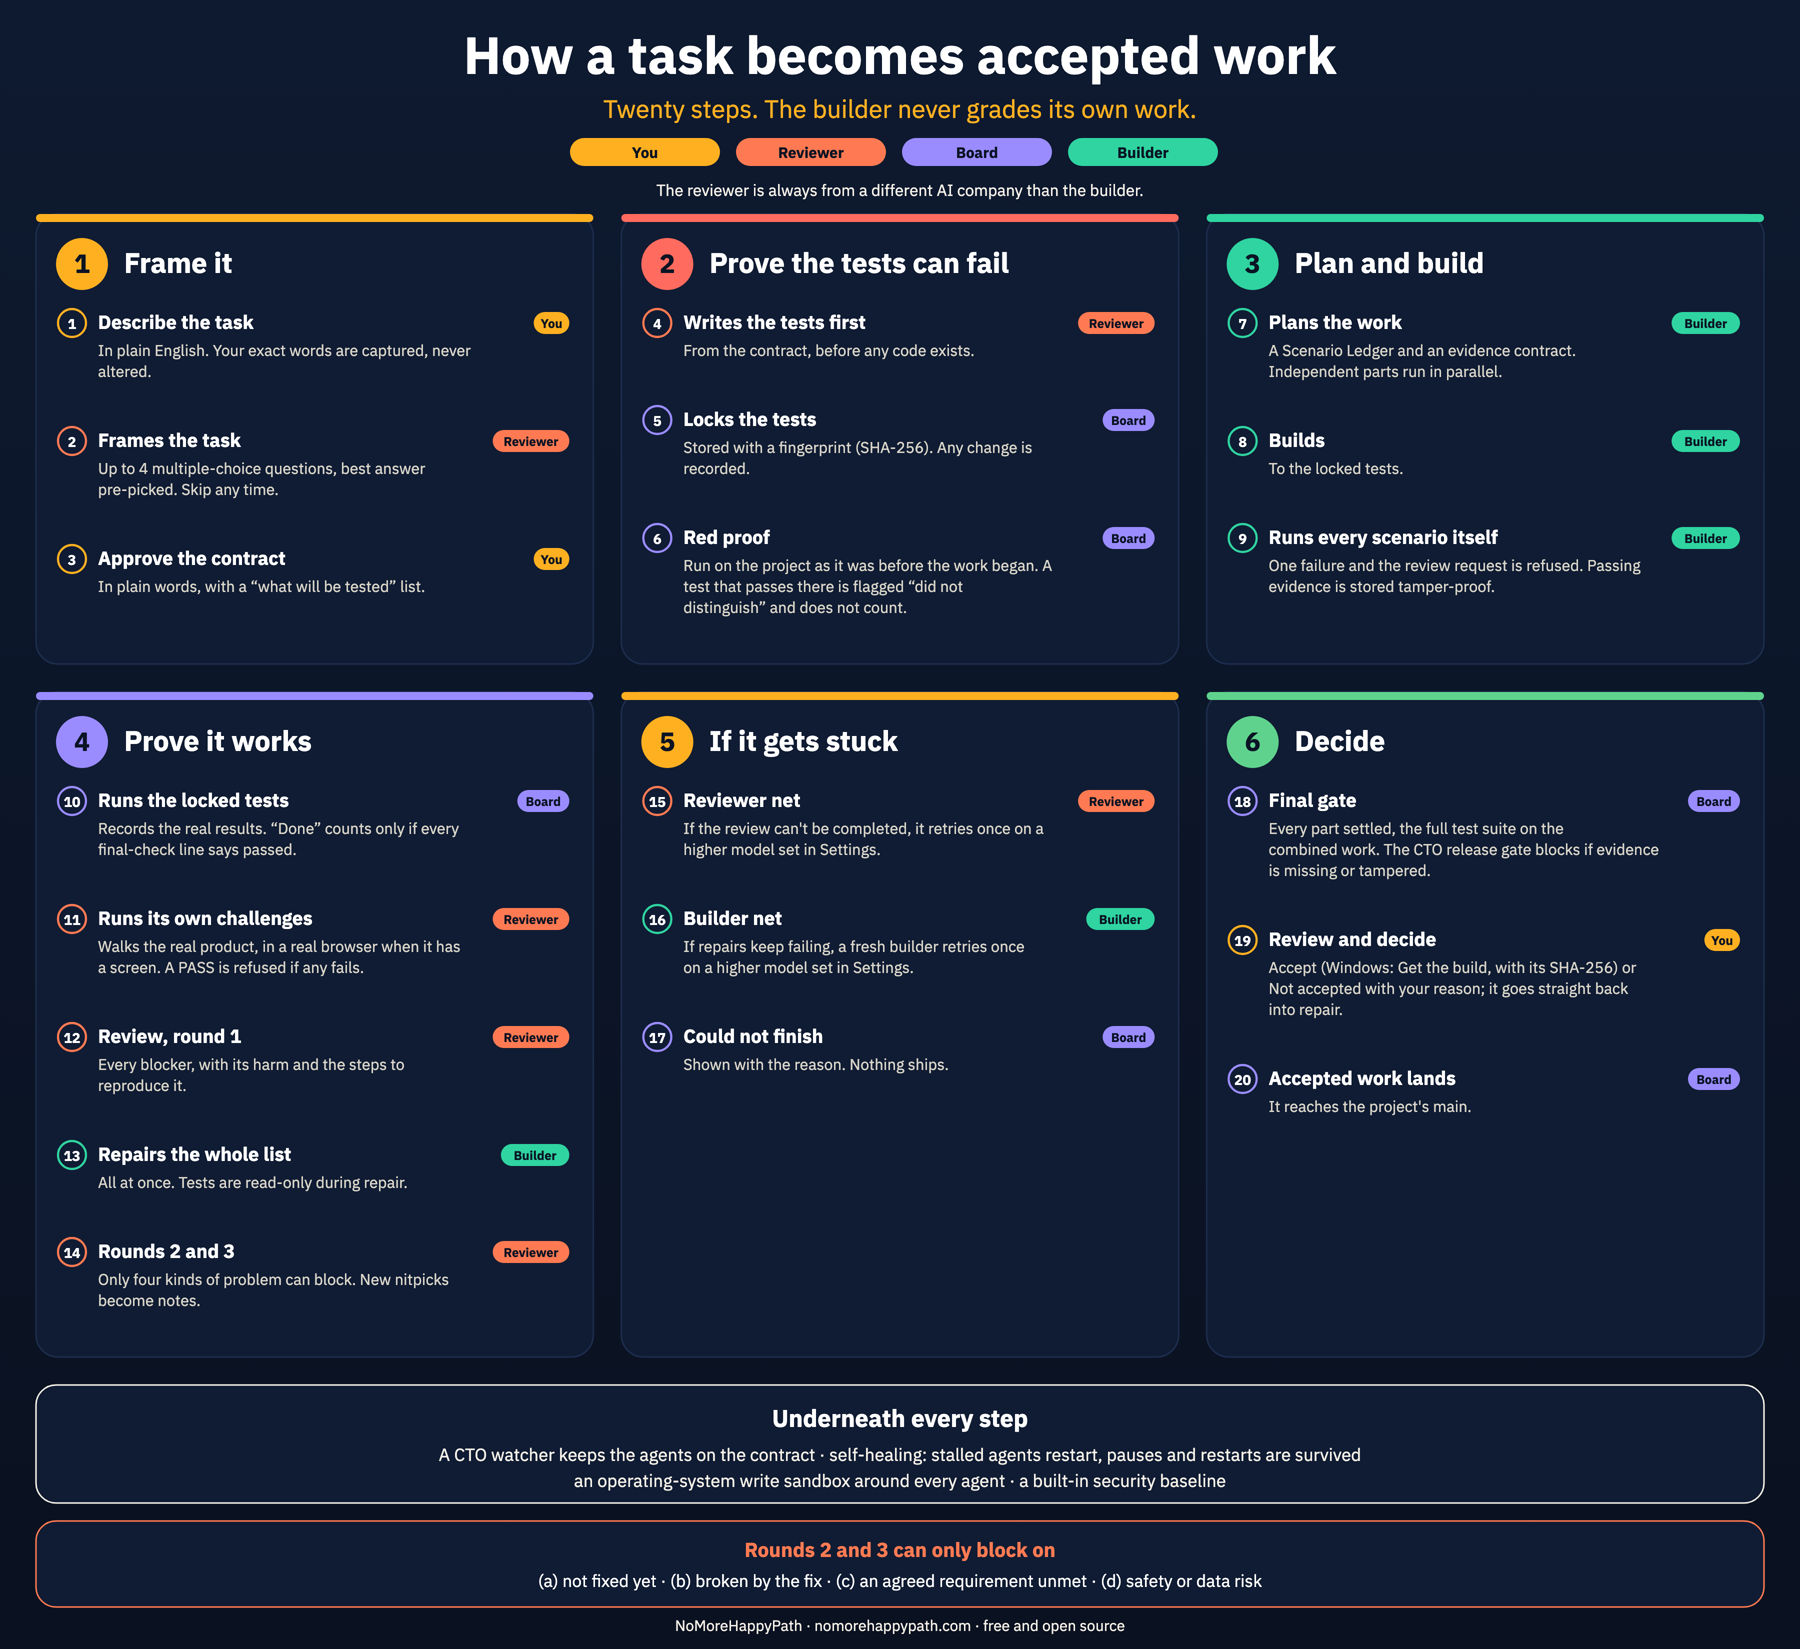
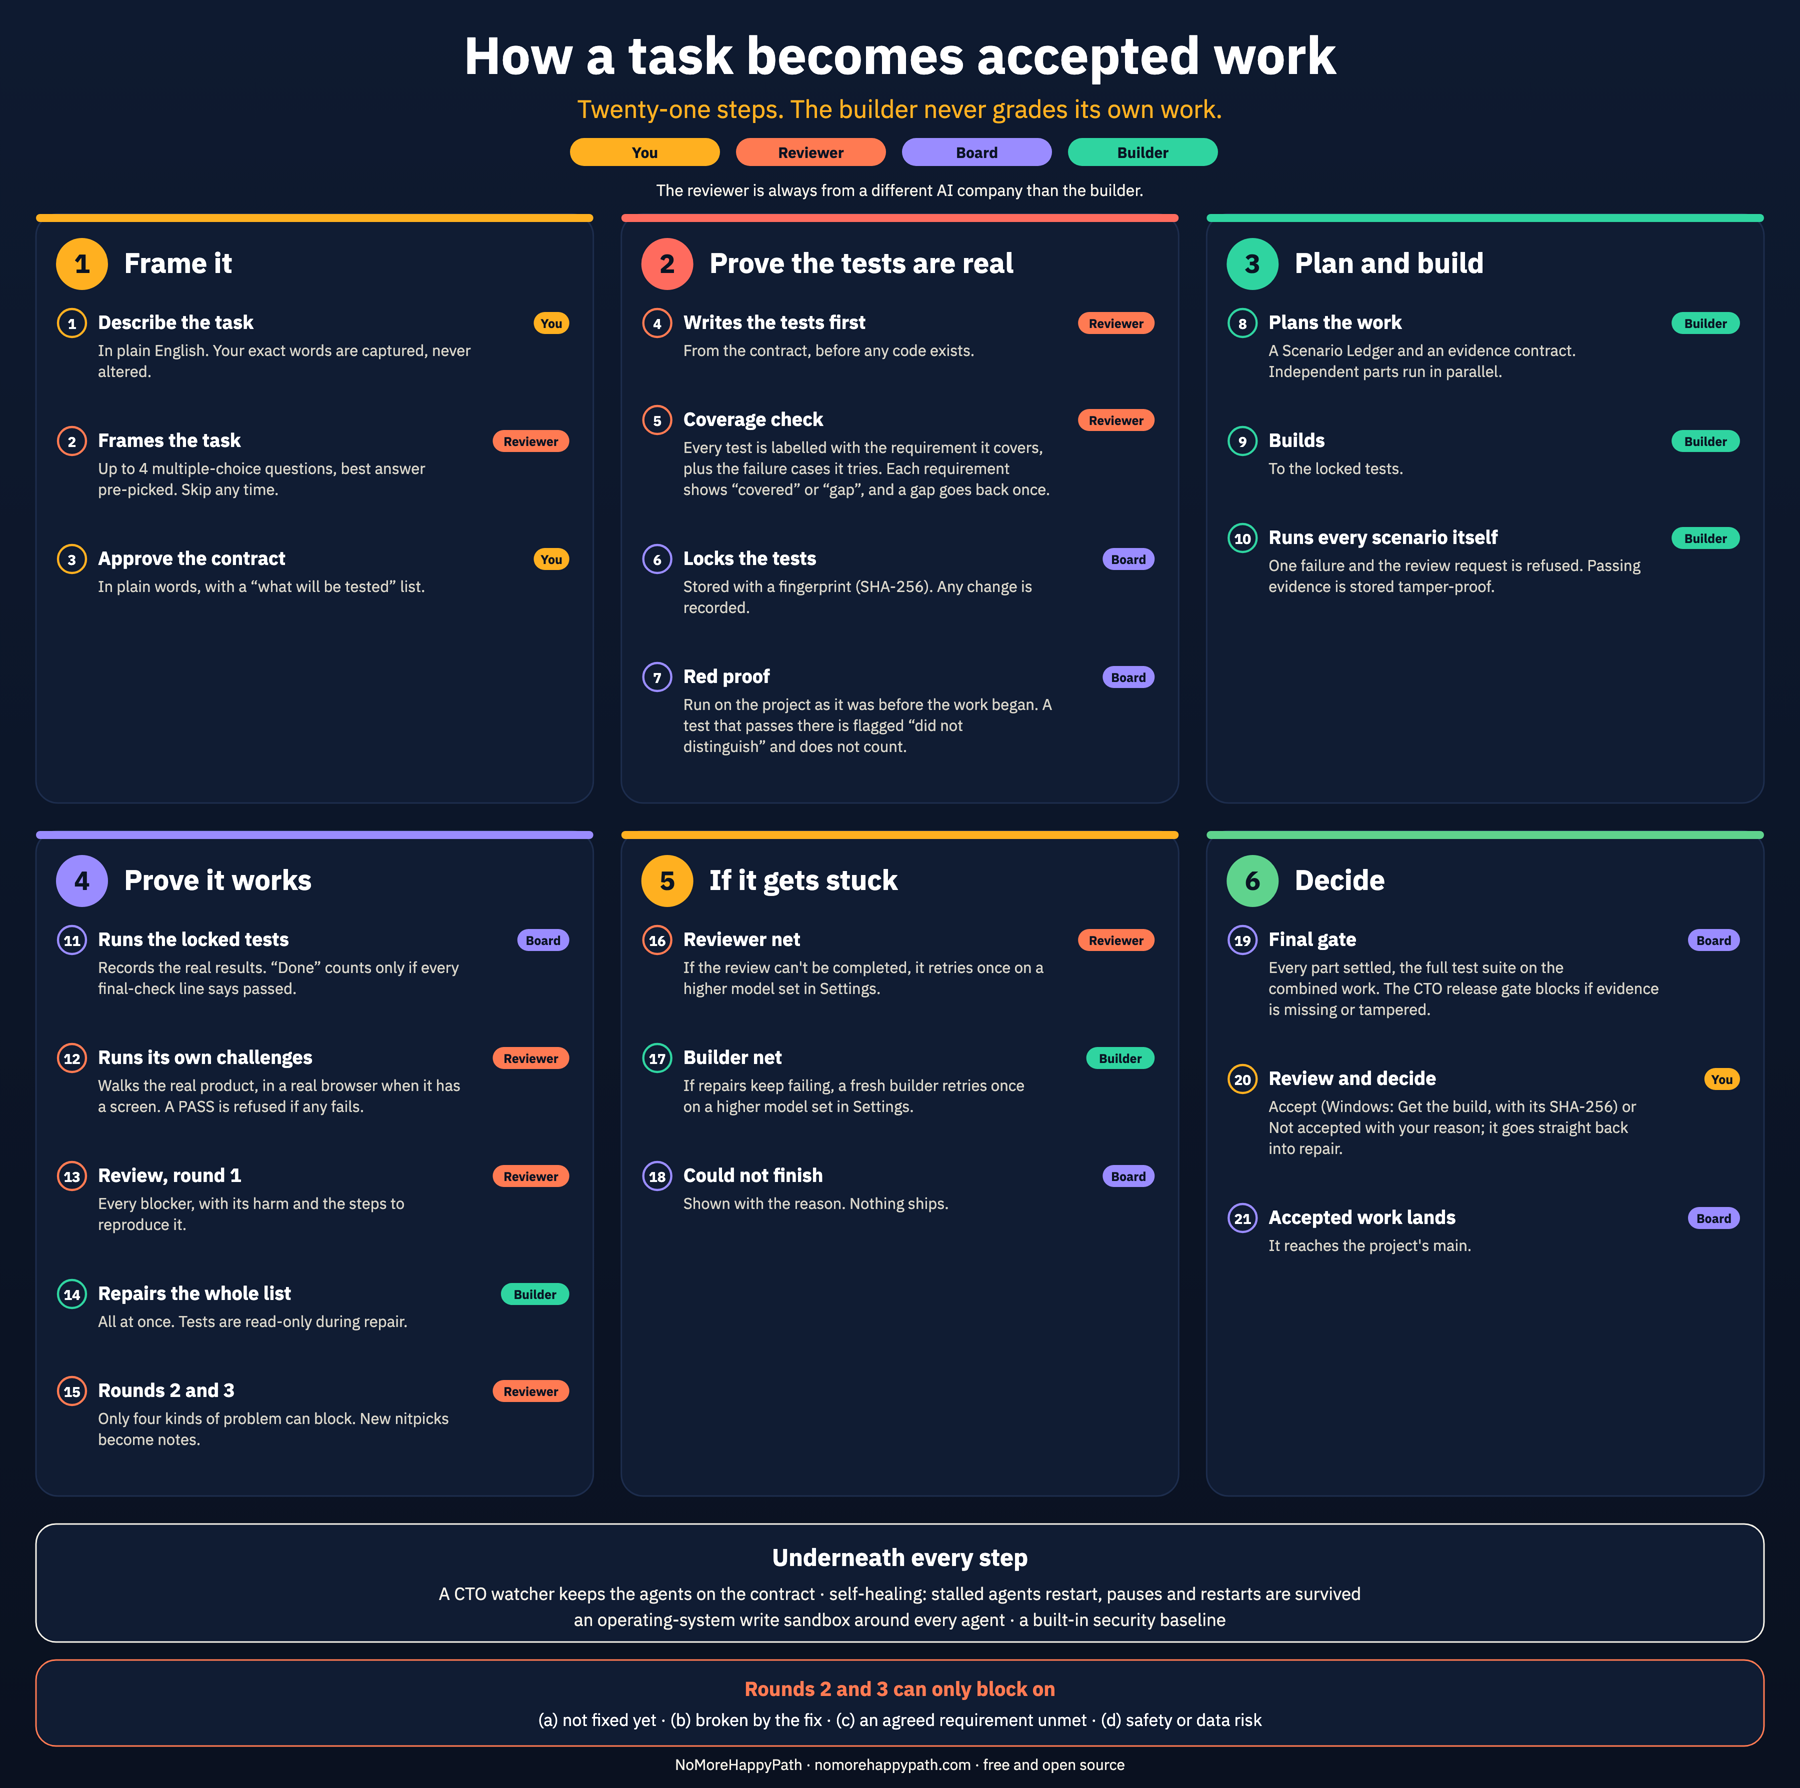
Show the 21-step process with the coverage check

diff --git a/index.html b/index.html
@@ -242,7 +242,7 @@
       <h2>From a sentence to software you can hand to a customer</h2>
       <div class="flow">
         <div class="flow-d">
-          <a class="zoom" href="assets/process-infographic.png" target="_blank" rel="noopener"><img src="assets/process-infographic.png" width="1800" height="1628" loading="lazy" alt="Twenty steps in six phases. Frame it: you describe the task, the reviewer frames it with up to four multiple-choice questions, you approve a plain-words contract. Prove the tests can fail: the reviewer writes the tests first, the board locks them and checks they fail on the project as it was before the work. Plan and build: the builder plans, builds to the locked tests and runs every scenario. Prove it works: the board runs the locked tests, the reviewer runs its own challenges and reviews in rounds, the builder repairs. If it gets stuck: one retry by the reviewer or a fresh builder on a higher model, otherwise could not finish. Decide: a final gate, then you accept or not, and accepted work lands."></a>
+          <a class="zoom" href="assets/process-infographic.png" target="_blank" rel="noopener"><img src="assets/process-infographic.png" width="1800" height="1788" loading="lazy" alt="Twenty-one steps in six phases. Frame it: you describe the task, the reviewer frames it with up to four multiple-choice questions, you approve a plain-words contract. Prove the tests are real: the reviewer writes the tests first, a coverage check confirms every requirement has a test, the board locks them and checks they fail on the project as it was before the work. Plan and build: the builder plans, builds to the locked tests and runs every scenario. Prove it works: the board runs the locked tests, the reviewer runs its own challenges and reviews in rounds, the builder repairs. If it gets stuck: one retry by the reviewer or a fresh builder on a higher model, otherwise could not finish. Decide: a final gate, then you accept or not, and accepted work lands."></a>
           <p class="hint">Click the image to open it full size.</p>
         </div>
         <div class="flow-m">
@@ -251,34 +251,35 @@
           <li class="you"><small>You</small><b data-n="1">Describe the task</b><span>In plain English. Your exact words are captured, never altered.</span></li>
           <li class="reviewer"><small>Reviewer</small><b data-n="2">Frames the task</b><span>Up to 4 multiple-choice questions, best answer pre-picked. Skip any time.</span></li>
           <li class="you"><small>You</small><b data-n="3">Approve the contract</b><span>In plain words, with a “what will be tested” list.</span></li>
-          <li class="phase"><b>2. Prove the tests can fail</b></li>
+          <li class="phase"><b>2. Prove the tests are real</b></li>
           <li class="reviewer"><small>Reviewer</small><b data-n="4">Writes the tests first</b><span>From the contract, before any code exists.</span></li>
-          <li class="board"><small>Board</small><b data-n="5">Locks the tests</b><span>Stored with a fingerprint (SHA-256). Any change is recorded.</span></li>
-          <li class="board"><small>Board</small><b data-n="6">Red proof</b><span>Run on the project as it was before the work began. A test that passes there is flagged “did not distinguish” and does not count.</span></li>
+          <li class="reviewer"><small>Reviewer</small><b data-n="5">Coverage check</b><span>Every test is labelled with the requirement it covers, plus the failure cases it tries. Each requirement shows “covered” or “gap”, and a gap goes back once.</span></li>
+          <li class="board"><small>Board</small><b data-n="6">Locks the tests</b><span>Stored with a fingerprint (SHA-256). Any change is recorded.</span></li>
+          <li class="board"><small>Board</small><b data-n="7">Red proof</b><span>Run on the project as it was before the work began. A test that passes there is flagged “did not distinguish” and does not count.</span></li>
           <li class="phase"><b>3. Plan and build</b></li>
-          <li class="builder"><small>Builder</small><b data-n="7">Plans the work</b><span>A Scenario Ledger and an evidence contract. Independent parts run in parallel.</span></li>
-          <li class="builder"><small>Builder</small><b data-n="8">Builds</b><span>To the locked tests.</span></li>
-          <li class="builder"><small>Builder</small><b data-n="9">Runs every scenario itself</b><span>One failure and the review request is refused. Passing evidence is stored tamper-proof.</span></li>
+          <li class="builder"><small>Builder</small><b data-n="8">Plans the work</b><span>A Scenario Ledger and an evidence contract. Independent parts run in parallel.</span></li>
+          <li class="builder"><small>Builder</small><b data-n="9">Builds</b><span>To the locked tests.</span></li>
+          <li class="builder"><small>Builder</small><b data-n="10">Runs every scenario itself</b><span>One failure and the review request is refused. Passing evidence is stored tamper-proof.</span></li>
           <li class="phase"><b>4. Prove it works</b></li>
-          <li class="board"><small>Board</small><b data-n="10">Runs the locked tests</b><span>Records the real results. “Done” counts only if every final-check line says passed.</span></li>
-          <li class="reviewer"><small>Reviewer</small><b data-n="11">Runs its own challenges</b><span>Walks the real product, in a real browser when it has a screen. A PASS is refused if any fails.</span></li>
-          <li class="reviewer"><small>Reviewer</small><b data-n="12">Review, round 1</b><span>Every blocker, with its harm and the steps to reproduce it.</span></li>
-          <li class="builder"><small>Builder</small><b data-n="13">Repairs the whole list</b><span>All at once. Tests are read-only during repair.</span></li>
-          <li class="reviewer"><small>Reviewer</small><b data-n="14">Rounds 2 and 3</b><span>Only four kinds of problem can block. New nitpicks become notes.</span></li>
+          <li class="board"><small>Board</small><b data-n="11">Runs the locked tests</b><span>Records the real results. “Done” counts only if every final-check line says passed.</span></li>
+          <li class="reviewer"><small>Reviewer</small><b data-n="12">Runs its own challenges</b><span>Walks the real product, in a real browser when it has a screen. A PASS is refused if any fails.</span></li>
+          <li class="reviewer"><small>Reviewer</small><b data-n="13">Review, round 1</b><span>Every blocker, with its harm and the steps to reproduce it.</span></li>
+          <li class="builder"><small>Builder</small><b data-n="14">Repairs the whole list</b><span>All at once. Tests are read-only during repair.</span></li>
+          <li class="reviewer"><small>Reviewer</small><b data-n="15">Rounds 2 and 3</b><span>Only four kinds of problem can block. New nitpicks become notes.</span></li>
           <li class="phase"><b>5. If it gets stuck</b></li>
-          <li class="reviewer"><small>Reviewer</small><b data-n="15">Reviewer net</b><span>If the review can&#x27;t be completed, it retries once on a higher model set in Settings.</span></li>
-          <li class="builder"><small>Builder</small><b data-n="16">Builder net</b><span>If repairs keep failing, a fresh builder retries once on a higher model set in Settings.</span></li>
-          <li class="board"><small>Board</small><b data-n="17">Could not finish</b><span>Shown with the reason. Nothing ships.</span></li>
+          <li class="reviewer"><small>Reviewer</small><b data-n="16">Reviewer net</b><span>If the review can&#x27;t be completed, it retries once on a higher model set in Settings.</span></li>
+          <li class="builder"><small>Builder</small><b data-n="17">Builder net</b><span>If repairs keep failing, a fresh builder retries once on a higher model set in Settings.</span></li>
+          <li class="board"><small>Board</small><b data-n="18">Could not finish</b><span>Shown with the reason. Nothing ships.</span></li>
           <li class="phase"><b>6. Decide</b></li>
-          <li class="board"><small>Board</small><b data-n="18">Final gate</b><span>Every part settled, the full test suite on the combined work. The CTO release gate blocks if evidence is missing or tampered.</span></li>
-          <li class="you"><small>You</small><b data-n="19">Review and decide</b><span>Accept (Windows: Get the build, with its SHA-256) or Not accepted with your reason; it goes straight back into repair.</span></li>
-          <li class="board"><small>Board</small><b data-n="20">Accepted work lands</b><span>It reaches the project&#x27;s main.</span></li>
+          <li class="board"><small>Board</small><b data-n="19">Final gate</b><span>Every part settled, the full test suite on the combined work. The CTO release gate blocks if evidence is missing or tampered.</span></li>
+          <li class="you"><small>You</small><b data-n="20">Review and decide</b><span>Accept (Windows: Get the build, with its SHA-256) or Not accepted with your reason; it goes straight back into repair.</span></li>
+          <li class="board"><small>Board</small><b data-n="21">Accepted work lands</b><span>It reaches the project&#x27;s main.</span></li>
           </ol>
           <p class="flow-note">The builder never grades its own work.</p>
         </div>
       </div>
       <div class="flow zoomin">
-        <div class="kicker">Zoom in on step 6</div>
+        <div class="kicker">Zoom in on step 7</div>
         <h3>Why every test must fail first</h3>
         <p class="lead">You don't trust a smoke alarm until you've tested it with smoke. NoMoreHappyPath does the same with every test: before the work counts, the board runs the reviewer's tests on the project as it was before the work. A test that can't fail proves nothing.</p>
         <div class="flow-d">
@@ -290,7 +291,7 @@
             <li style="border-color:#8a93a8"><b>A useless test</b><span>“The page exists.” It passes even before anything is built, so it proves nothing. It is flagged “did not distinguish” and does not count as proof.</span></li>
           </ul>
         </div>
-        <p class="fine">It shows a test can fail before the work, not that it covers every requirement. If a check can't be compared, the board says so.</p>
+        <p class="fine">The coverage check (step 5) is the other half: it confirms every requirement has a test, including what happens when things go wrong. The board checks the reviewer’s labels; it cannot judge how clever a test is, which is why the reviewer is from the other AI company. The red proof shows a test can fail before the work, not that it covers every requirement. If a check can't be compared, the board says so.</p>
       </div>
     </div>
   </section>
